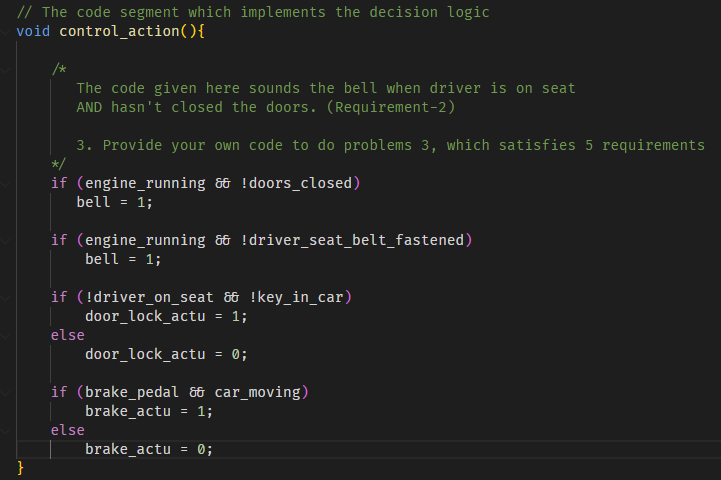
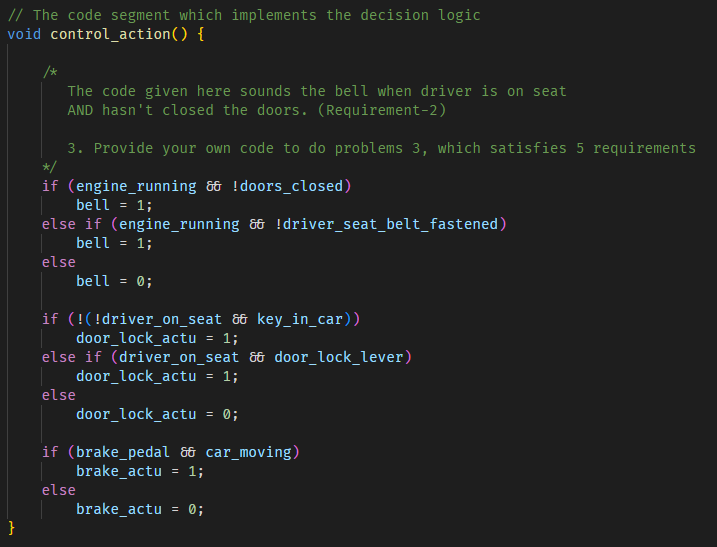
update lab 1

diff --git a/Lab 1/lab1_prob3_framework.c b/Lab 1/lab1_prob3_framework.c
@@ -34,30 +34,30 @@ unsigned int bell = 0;
 unsigned int door_lock_actu = 0;
 unsigned int brake_actu = 0;
 
-void read_inputs_from_ip_if(){
-	
-	// 1. Provide your input code here
-	// This function should read the current state of the available sensors (8 in total)
+void read_inputs_from_ip_if() {
 
-	// Hint : You can use scanf to obtain inputs for the sensors
+    // 1. Provide your input code here
+    // This function should read the current state of the available sensors (8 in total)
+
+    // Hint : You can use scanf to obtain inputs for the sensors
     printf("Is the Driver on the Seat?\t");
     scanf("%u", &driver_on_seat);
 
     printf("Is the Driver Seat Belt Fastened?\t");
     scanf("%u", &driver_seat_belt_fastened);
-    
+
     printf("Is the Enginer Running?\t");
     scanf("%u", &driver_seat_belt_fastened);
 
     printf("Are the Doors Closed?\t");
     scanf("%u", &driver_seat_belt_fastened);
-    
+
     printf("Is the Key in Car?\t");
     scanf("%u", &driver_seat_belt_fastened);
-    
+
     printf("Is the Door Lock Leaver activated?\t");
     scanf("%u", &driver_seat_belt_fastened);
-    
+
     printf("Is the Break Pedal activated?\t");
     scanf("%u", &driver_seat_belt_fastened);
 
@@ -65,36 +65,37 @@ void read_inputs_from_ip_if(){
     scanf("%u", &driver_seat_belt_fastened);
 }
 
-void write_output_to_op_if(){
+void write_output_to_op_if() {
 
     // 2. Provide your output code here
     // This function should display/print the state of the 3 actuators (DLA/BELL/BA)
-    printf("\nBELL:\t%u\n", bell);
-    printf("DLA:\t%u\n", door_lock_actu);
-    printf("BA:\t%u\n", brake_actu);
+    printf("\n(BA, DLA, BELL):\t%u %u %u\n", brake_actu, door_lock_actu, bell);
 }
 
 
 // The code segment which implements the decision logic
-void control_action(){
+void control_action() {
 
     /*
        The code given here sounds the bell when driver is on seat
        AND hasn't closed the doors. (Requirement-2)
-      
-       3. Provide your own code to do problems 3, which satisfies 5 requirements 
-    */
-    if (engine_running && !doors_closed) 
-       bell = 1;
-    
-    if (engine_running && !driver_seat_belt_fastened)
-        bell = 1;
 
-    if (!driver_on_seat && !key_in_car)
+       3. Provide your own code to do problems 3, which satisfies 5 requirements
+    */
+    if (engine_running && !doors_closed)
+        bell = 1;
+    else if (engine_running && !driver_seat_belt_fastened)
+        bell = 1;
+    else
+        bell = 0;
+
+    if (!(!driver_on_seat && key_in_car))
+        door_lock_actu = 1;
+    else if (driver_on_seat && door_lock_lever)
         door_lock_actu = 1;
     else
         door_lock_actu = 0;
-    
+
     if (brake_pedal && car_moving)
         brake_actu = 1;
     else
@@ -104,8 +105,7 @@ void control_action(){
 
 /* ---     You do not need to modify codes shown below  ---- */
 
-int main(int argc, char *argv[])
-{
+int main(int argc, char* argv[]) {
 
     // code segment 1
     /*
@@ -122,32 +122,32 @@ int main(int argc, char *argv[])
     //     control_action();
     //     write_output_to_op_if();
     // }
- 
-    
+
+
     // code segment 2
     /*
         Below is 8 different test cases provided you for testing purposes.
         Please uncomment this code segment 2 and comment out the code segment 1
         and run the file using command shown below
         gcc -std=c99 -o test lab1_prob3.c
-        4. Please provide the screenshot of the output obtained from running this code segment 2 
-        and your code written from 1-3 to the lab report 
+        4. Please provide the screenshot of the output obtained from running this code segment 2
+        and your code written from 1-3 to the lab report
     */
 
-    int test[8][8] = {  {0, 0, 0, 0, 0, 0, 0, 0}, 
-                        {1, 1, 0, 0, 1, 0, 1, 0}, 
-                        {0, 1, 0, 1, 1, 1, 1, 1}, 
-                        {1, 0, 1, 0, 1, 0, 0, 0}, 
-                        {1, 0, 1, 1, 1, 1, 0, 1}, 
-                        {1, 1, 1, 0, 1, 0, 1, 0}, 
-                        {1, 1, 1, 1, 1, 1, 1, 1}, 
-                        {1, 0, 0, 0, 1, 0, 0, 1} };
+    int test[8][8] = {{0, 0, 0, 0, 0, 0, 0, 0},
+                        {1, 1, 0, 0, 1, 0, 1, 0},
+                        {0, 1, 0, 1, 1, 1, 1, 1},
+                        {1, 0, 1, 0, 1, 0, 0, 0},
+                        {1, 0, 1, 1, 1, 1, 0, 1},
+                        {1, 1, 1, 0, 1, 0, 1, 0},
+                        {1, 1, 1, 1, 1, 1, 1, 1},
+                        {1, 0, 0, 0, 1, 0, 0, 1}};
     for (int i = 0; i < 8; i++) {
         bell = 0;
         door_lock_actu = 0;
         brake_actu = 0;
 
-        driver_on_seat = test[i][0]; 
+        driver_on_seat = test[i][0];
         driver_seat_belt_fastened = test[i][1];
         engine_running = test[i][2];
         doors_closed = test[i][3];
@@ -155,11 +155,11 @@ int main(int argc, char *argv[])
         door_lock_lever = test[i][5];
         brake_pedal = test[i][6];
         car_moving = test[i][7];
-        
+
         control_action();
         printf("Test %d: ", i);
-        printf("\n %d %d %d %d %d %d %d %d ", driver_on_seat, driver_seat_belt_fastened, 
-                                            engine_running, doors_closed, key_in_car, 
+        printf("\n %d %d %d %d %d %d %d %d ", driver_on_seat, driver_seat_belt_fastened,
+                                            engine_running, doors_closed, key_in_car,
                                             door_lock_lever, brake_pedal, car_moving);
         write_output_to_op_if();
     }
